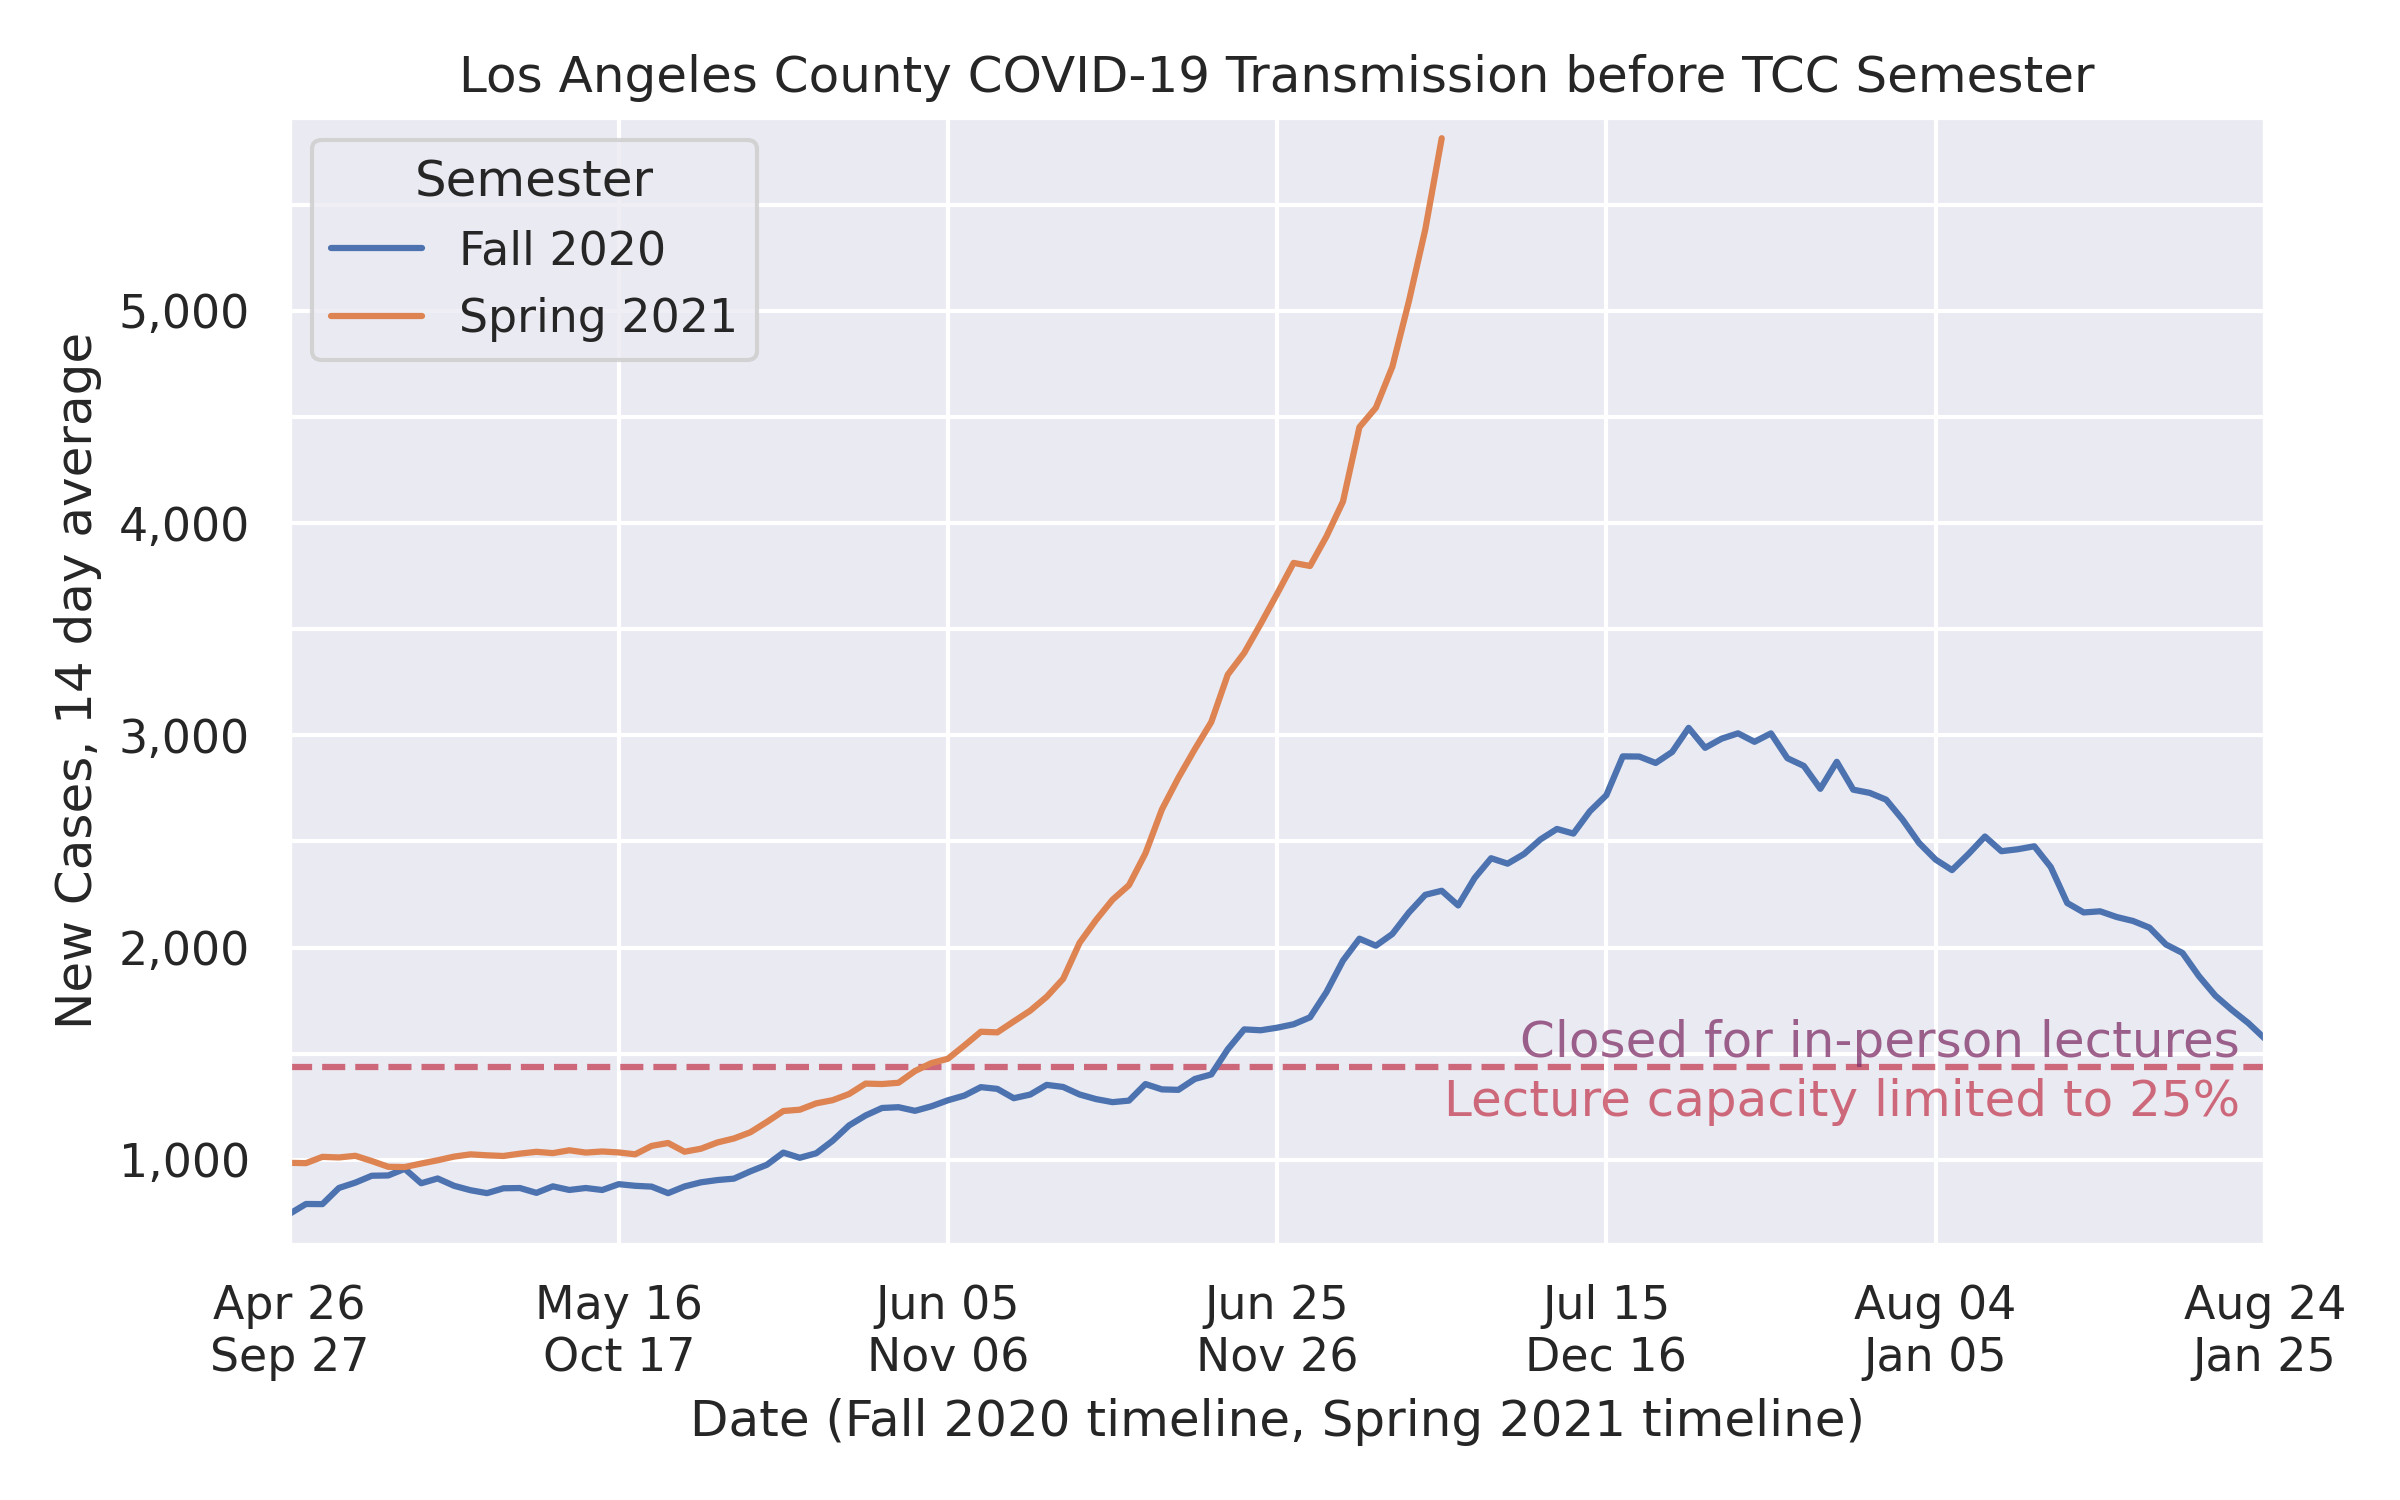
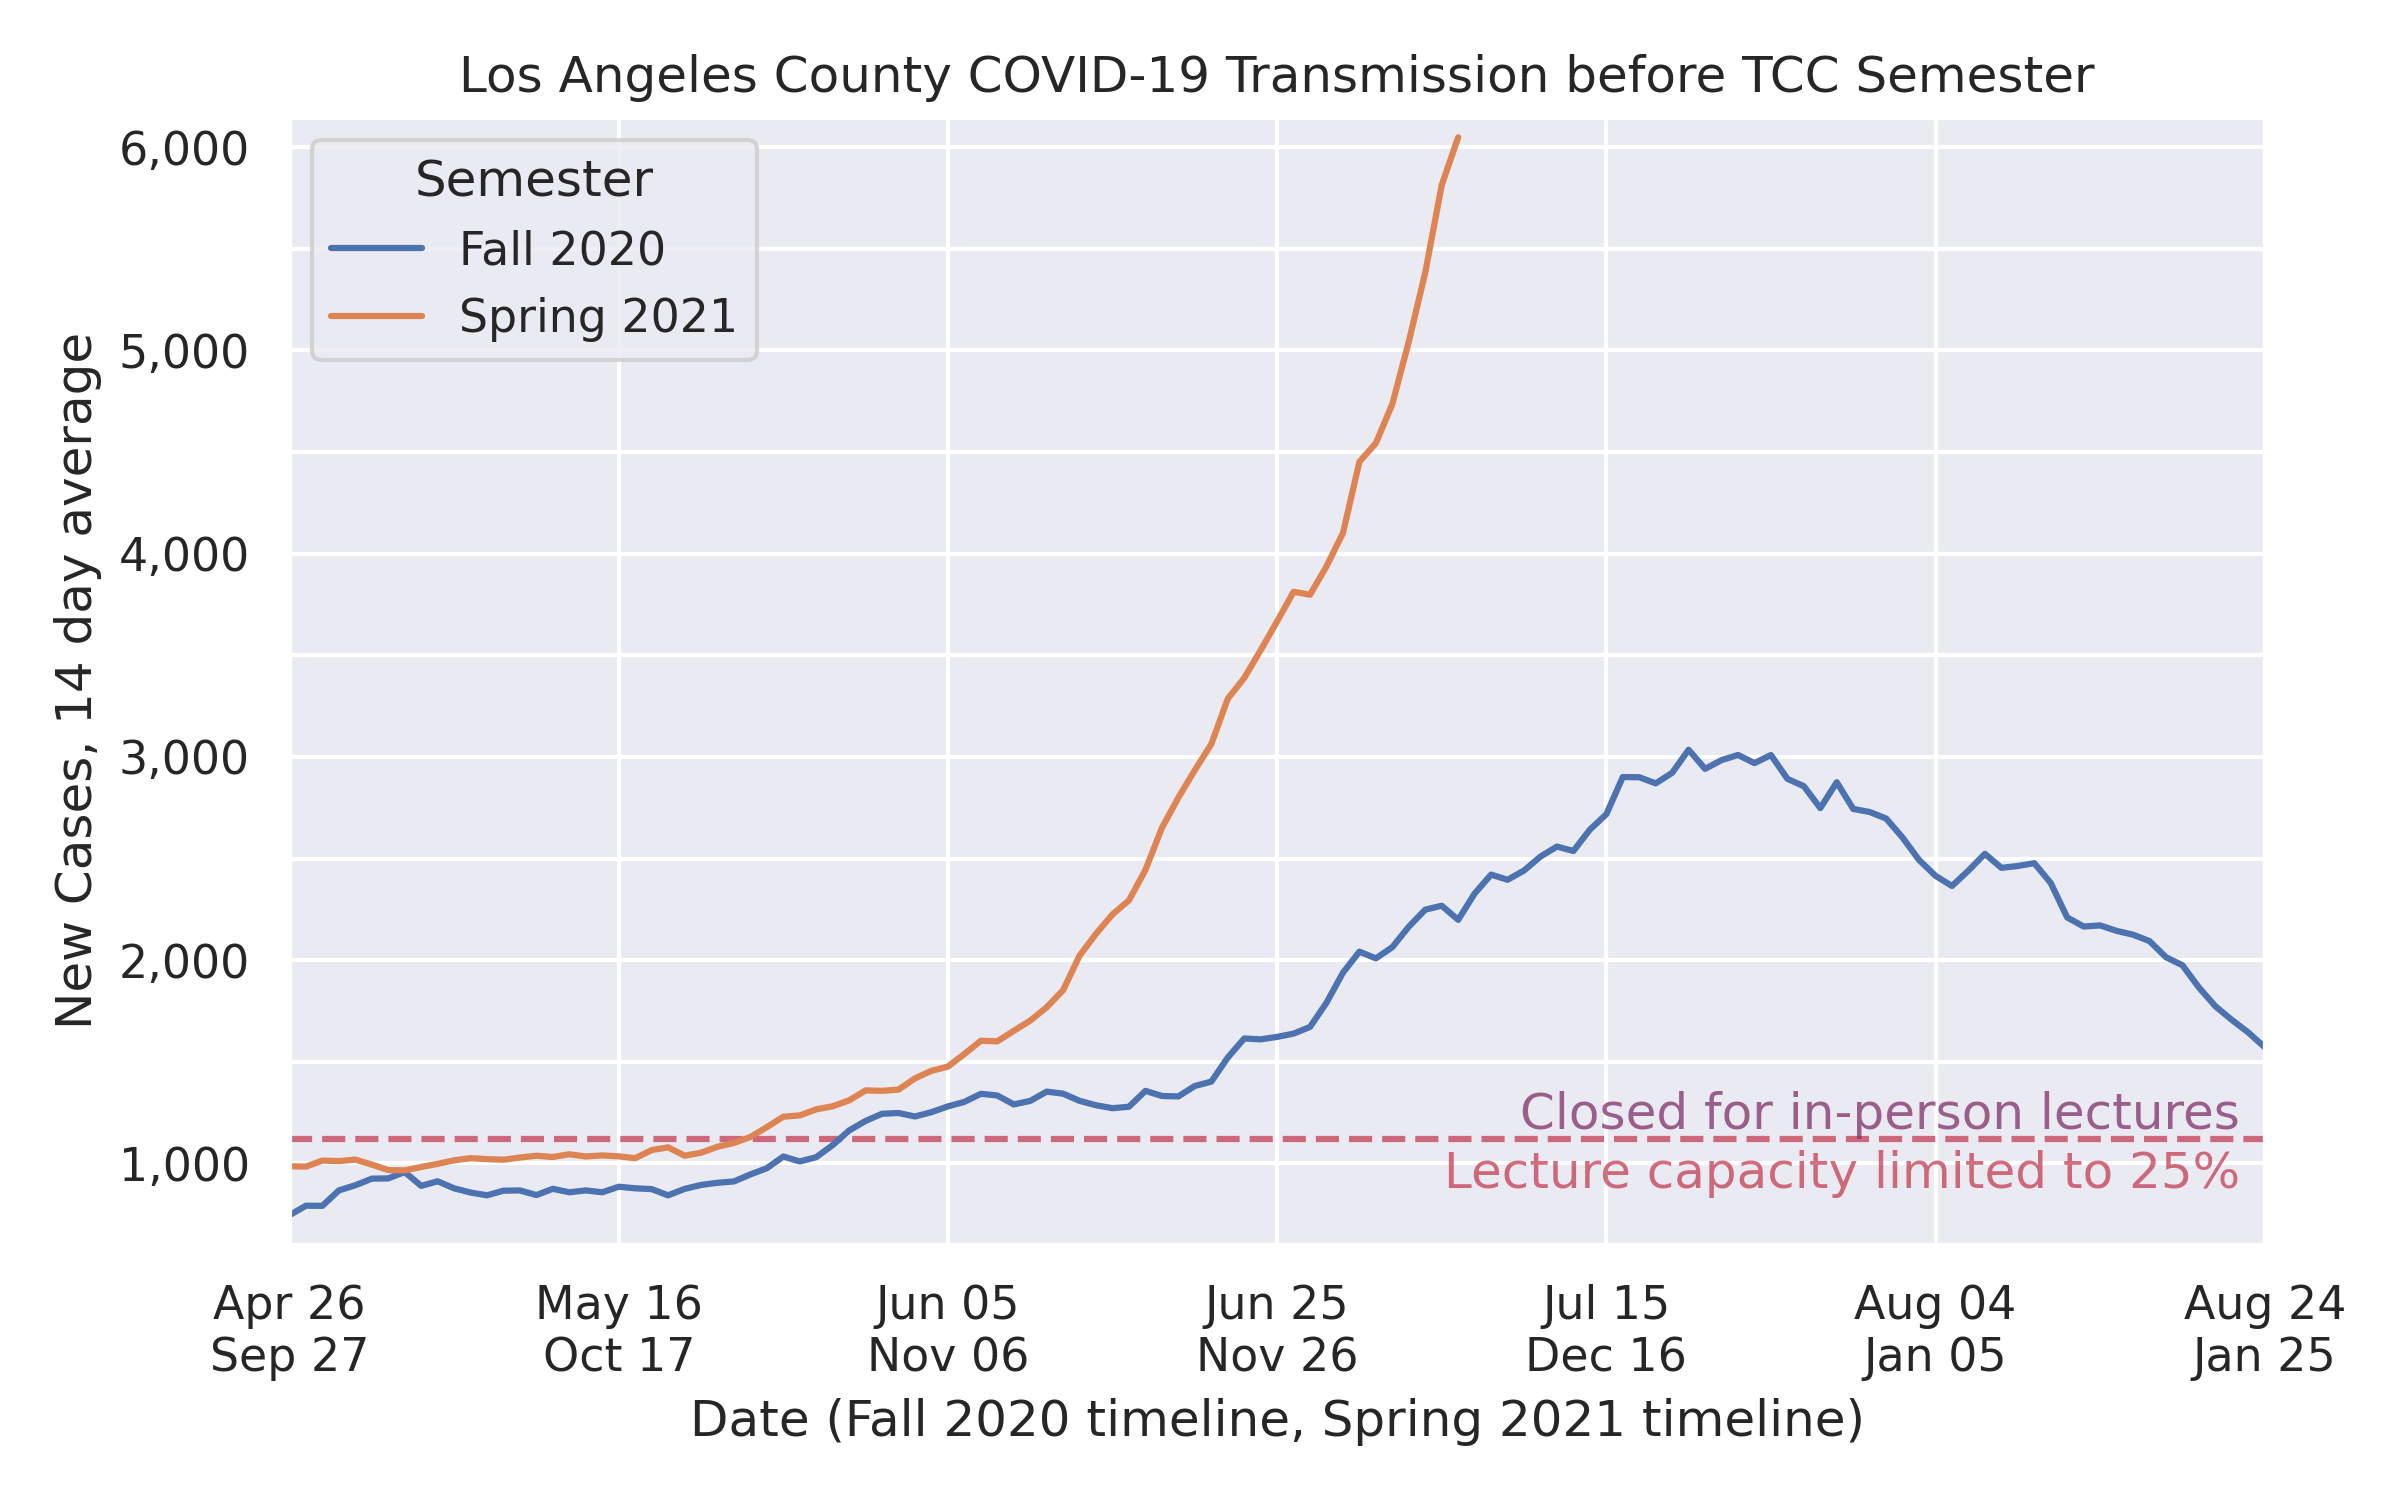
Update 2020-12-08 / New reopening adjustment
Hopspitalization y axis labels simplified

diff --git a/semester_start_countdown.py b/semester_start_countdown.py
@@ -148,7 +148,7 @@ df_la = df_la.loc[:, (DATE, SEMESTER, DAYS_UNTIL_SEMESTER,
 
 fig, ax = plt.subplots(figsize=(8, 5), dpi=300)
 
-rate_multiplier = (10_257_557 / 1e5) / 0.500
+rate_multiplier = (10_257_557 / 1e5) / 0.642
 substantial_rate, moderate_rate = [rate_multiplier * x for x in (7, 4)]
 widespread_color = '#802f67'
 substantial_color = '#c43d53'
@@ -171,7 +171,7 @@ ax.set_title('Los Angeles County COVID-19 Transmission before TCC Semester')
 sns.lineplot(x=DAYS_UNTIL_SEMESTER, y=NEW_CASES_AVG, hue=SEMESTER, data=df_la, ax=ax)
 
 ax.set_yticks(list(range(0, int(df_la[NEW_CASES_AVG].max())+500, 500)))
-ax.set_yticklabels([f'{int(x):n}' if x%1000==0 else '' for x in ax.get_yticks()])
+ax.set_yticklabels([f'{int(x):n}' if x%1e3==0 else '' for x in ax.get_yticks()])
 
 ax.set_xlabel(X_AXIS_LABEL)
 ax.set_ylabel(NEW_CASES_AVG)
@@ -199,7 +199,7 @@ ax.plot(DAYS_UNTIL_SEMESTER, HOSPITALIZED_CONFIRMED_AVG, color=sns.color_palette
         data=df_la[df_la[SEMESTER] == SPRING_2021])
 
 ax.set_yticks(list(range(0, int(df_la[HOSPITALIZED_ALL_AVG].max()+500), 500)))
-ax.set_yticklabels([f'{int(x):n}' for x in ax.get_yticks()])
+ax.set_yticklabels([f'{int(x):n}' if x%1e3==0 else '' for x in ax.get_yticks()])
 
 ax.set_xlabel(X_AXIS_LABEL)
 ax.xaxis.set_major_formatter(FuncFormatter(date_axis_text))
